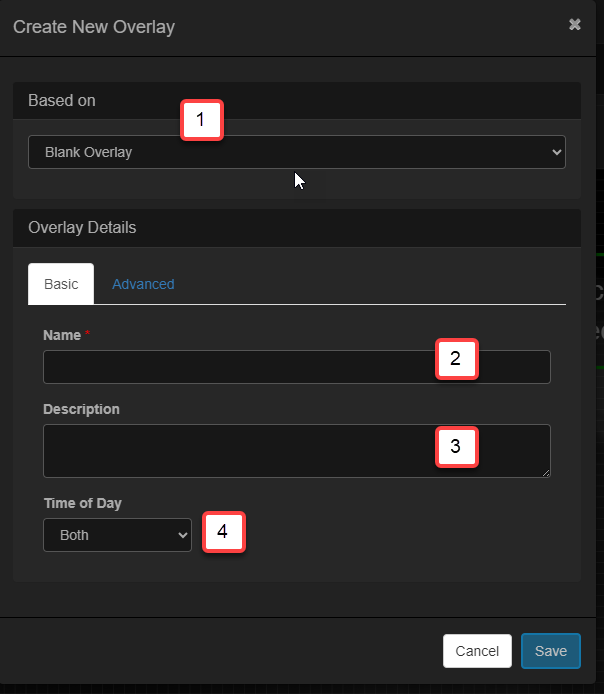
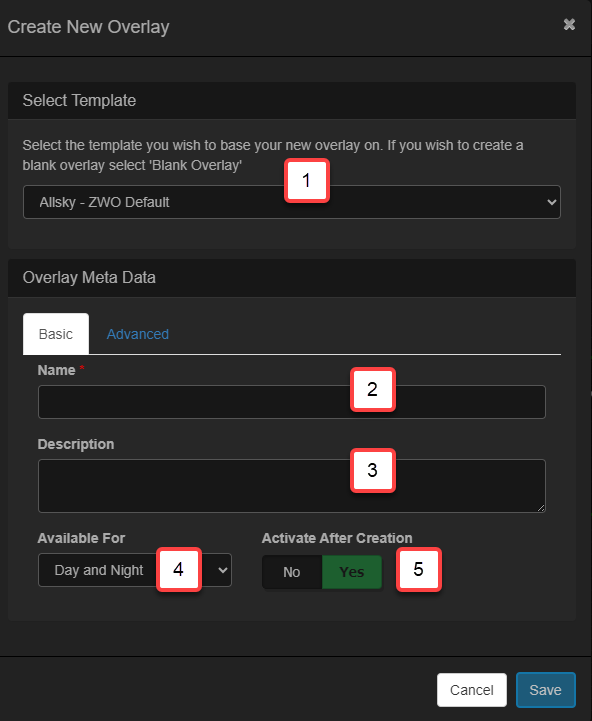
Reword the overlay manager and add a few minor changes

diff --git a/html/js/jquery-overlaymanager/jquery-overlaymanager.js b/html/js/jquery-overlaymanager/jquery-overlaymanager.js
@@ -130,7 +130,7 @@
                                 <a href="#oe-editor-tab1"  role="tab" data-toggle="tab" id="oe-overlay-editor-tab1">Overlay</a>\
                             </li>\
                             <li role="presentation">\
-                                <a href="#oe-exposure-tab2"  role="tab" data-toggle="tab">Options</a>\
+                                <a href="#oe-exposure-tab2"  role="tab" data-toggle="tab">Activate</a>\
                             </li>\
                         </ul>\
                         <div class="tab-content">\
@@ -222,9 +222,9 @@
                                         <div class="row">\
                                             <div class="col-md-12 col-sm-12 col-xs-12">\
                                                 <div class="form-group ">\
-                                                    <label class="control-label ">Time of Day</label>\
+                                                    <label class="control-label ">Available For</label>\
                                                     <select class="form-control ' + plugin.mmMetaData  + '" id="' + plugin.mmMetaTod + '" name="' + plugin.mmMetaTod + '" data-field="tod">\
-                                                        <option value="both">Both</option>\
+                                                        <option value="both">Day and Night</option>\
                                                         <option value="day">Daytime</option>\
                                                         <option value="night">Nighttime</option>\
                                                     </select>\
@@ -237,17 +237,17 @@
                             <div role="tabpanel" class="tab-pane" id="oe-exposure-tab2">\
                                 <div class="panel panel-default">\
                                     <div class="panel-heading">\
-                                        <h3 class="panel-title">Default Overlays</h3>\
+                                        <h3 class="panel-title">Active Overlays</h3>\
                                     </div>\
                                     <div class="panel-body">\
                                         <div class="row mt-2">\
                                             <div class="col-md-12 col-sm-12 col-xs-12">\
                                                 <div class="form-group ">\
-                                                    <label class="control-label " for="select">Daytime Overlay</label>\
+                                                    <label class="control-label " for="select">Daytime</label>\
                                                     <select class="select form-control ' + plugin.mmTODSelect + '" id="' + plugin.mmDaySelect + '" name="' + plugin.mmDaySelect + '"></select>\
                                                 </div>\
                                                 <div class="form-group ">\
-                                                    <label class="control-label " for="select1">Nighttime Overlay</label>\
+                                                    <label class="control-label " for="select1">Nighttime</label>\
                                                     <select class="select form-control ' + plugin.mmTODSelect + '" id="' + plugin.mmNightSelect + '" name="' + plugin.mmNightSelect + '"></select>\
                                                 </div>\
                                             </div>\
@@ -283,6 +283,7 @@
             plugin.mmNewDialogResolutionWidth = pluginPrefix + "-new-dialog-resolutionwidth";
             plugin.mmNewDialogResolutionHeight = pluginPrefix + "-new-dialog-resolutionheight";
             plugin.mmNewDialogTod = pluginPrefix + "-new-dialog-tod";
+            plugin.mmNewDialogActivate = pluginPrefix + "-new-dialog-activate";
             plugin.mmNewDialogSuggest = pluginPrefix + "-new-dialog-suggest";
             plugin.mmNewDialogAdvancedField = pluginPrefix + "-new-dialog-advanced";
 
@@ -340,14 +341,25 @@
                                                                 </div>\
                                                             </div>\
                                                             <div class="row">\
-                                                                <div class="col-md-4">\
+                                                                <div class="col-md-5">\
                                                                     <div class="form-group ">\
-                                                                        <label class="control-label " for="' + plugin.mmNewDialogTod + '">Time of Day</label>\
+                                                                        <label class="control-label " for="' + plugin.mmNewDialogTod + '">Available For</label>\
                                                                         <select class="select form-control ' + plugin.mmNewDialogAdvancedField + '" id="' + plugin.mmNewDialogTod + '" name="' + plugin.mmNewDialogTod + '">\
-                                                                            <option value="both">Both</option>\
+                                                                            <option value="both">Day and Night</option>\
                                                                             <option value="day">Daytime</option>\
                                                                             <option value="night">Nightime</option>\
                                                                         </select>\
+                                                                    </div>\
+                                                                </div>\
+                                                                <div class="col-md-7">\
+                                                                    <div class="form-group form-check">\
+                                                                        <label class="control-label " for="' + plugin.mmNewDialogActivate + '">Activate After Creation</label><br>\
+                                                                        <div class="switch-field boxShadow settingInput settingInputBoolean">\
+                                                                            <input id="' + plugin.mmNewDialogActivate + '-no" class="form-control" type="radio" name="' + plugin.mmNewDialogActivate + '" value="false">\
+                                                                            <label style="margin-bottom: 0px;" for="' + plugin.mmNewDialogActivate + '-no">No</label>\
+                                                                            <input id="' + plugin.mmNewDialogActivate + '-yes" class="form-control" type="radio" name="' + plugin.mmNewDialogActivate + '" value="true" checked="">\
+                                                                            <label style="margin-bottom: 0px;" for="' + plugin.mmNewDialogActivate + '-yes">Yes</label>\
+                                                                        </div>\
                                                                     </div>\
                                                                 </div>\
                                                             </div>\
@@ -600,6 +612,21 @@
                         cache: false,
                         async: false
                     });
+
+                    let activate = $('input[name=' + plugin.mmNewDialogActivate + ']:checked').val();
+                    activate = (activate?.toLowerCase?.() === 'true');
+                    if (activate) {
+                        let tod = $('#' + plugin.mmNewDialogTod).val();
+                        let day = $('#' + plugin.mmDaySelect).val();
+                        let night = $('#' + plugin.mmNightSelect).val();
+                        if (tod === 'day' || tod === 'both') {
+                            day = formData.data.filename + '.json';
+                        }
+                        if (tod === 'night' || tod === 'both') {
+                            night = formData.data.filename + '.json';                            
+                        }
+                        saveSettings(day, night);
+                    }
                     
                     let configManager = window.oedi.get('config');
                     configManager.loadOverlays();
@@ -646,17 +673,7 @@
             });
 
             $(document).on('click', '#' + plugin.mmConfigSave, (e) => {
-                let result = $.ajax({
-                    type: 'POST',
-                    url: 'includes/overlayutil.php?request=SaveSettings',
-                    data: {
-                        daytime: $('#' + plugin.mmDaySelect).val(),
-                        nighttime: $('#' + plugin.mmNightSelect).val()
-                    },
-                    dataType: 'json',
-                    cache: false,
-                    async: false
-                });
+                saveSettings($('#' + plugin.mmDaySelect).val(), $('#' + plugin.mmNightSelect).val());
                 $('#' + plugin.mmConfigSave).addClass('disabled');           
             });
 
@@ -664,6 +681,22 @@
                 updateNewFilename();
             });
 
+        }
+
+        var saveSettings = function(day, night) {
+            let result = $.ajax({
+                type: 'POST',
+                url: 'includes/overlayutil.php?request=SaveSettings',
+                data: {
+                    daytime: day,
+                    nighttime: night
+                },
+                dataType: 'json',
+                cache: false,
+                async: false
+            });
+
+            return result;
         }
 
         var destroyDialog = function() {

diff --git a/html/documentation/overlays/overlays.html b/html/documentation/overlays/overlays.html
@@ -656,7 +656,7 @@
 					<li>The <strong>working area</strong> contains the overlay and the current image
 						in the background.</li>
 				</ol>
-				<blockquote><strong>NOTE:</strong> The Overlay Manager will only start if Allsky is capturing images. If Allsky is not capturing a warning is displayed and the Overlay Manager will wait until Allsky start capturing.</blockquote>
+				<blockquote><strong>NOTE:</strong> The Overlay Editor will only start if Allsky is capturing images. If Allsky is not capturing a warning is displayed and the Overlay Editor will wait until Allsky start capturing.</blockquote>
 				<details>
 					<summary></summary>
 					<blockquote class="morePadding">
@@ -947,7 +947,7 @@
 									<p class="moduleAnnotation">
 										<span class="moduleToolbarIconNumber">2</span>
 										<span class="moduleToolbar">Config</span>
-										<span>Selects the config options</span>
+										<span>Displays the tab to allow overlays to be activated</span>
 									</p>
 									<p class="moduleAnnotation">
 										<span class="moduleToolbarIconNumber">3</span>
@@ -1000,7 +1000,7 @@
 									</p>
 									<p class="moduleAnnotation">
 										<span class="moduleToolbarIconNumber">12</span>
-										<span class="moduleToolbar">Time of Day</span>
+										<span class="moduleToolbar">Available For</span>
 										<span>The Time of Day the overlay should be used for</span>
 									</p>									
 								</td>
@@ -1038,7 +1038,7 @@
 								<td>
 									<p class="moduleAnnotation">
 										<span class="moduleToolbarIconNumber">1</span>
-										<span class="moduleToolbar">Copy From</span>
+										<span class="moduleToolbar">Select Template</span>
 										<span>Selects the overlay you wish to use as a starting point or select 'Blank Overlay' for an empty overlay</span>
 									</p>
 									<p class="moduleAnnotation">
@@ -1053,9 +1053,15 @@
 									</p>
 									<p class="moduleAnnotation">
 										<span class="moduleToolbarIconNumber">4</span>
-										<span class="moduleToolbar">Time Of Day</span>
+										<span class="moduleToolbar">Available For</span>
 										<span>Select the time of day you wish this overlay to be used in</span>
-									</p>									
+									</p>
+									<p class="moduleAnnotation">
+										<span class="moduleToolbarIconNumber">5</span>
+										<span class="moduleToolbar">Activate After Creation</span>
+										<span>If selected then the overlay will be activated after it has been created. If not selected the overlay will be saved as a draft and you will have to manually activate it.</span>
+									</p>
+									<blockquote>By default when an overlay is created it is activated for day/night or both as defined by the 'Available For' dropdown. If you DO NOT want the overlay to be activated by default then select 'No' in the 'Activate  After Creation' option.</blockquote>
 								</td>
 							</tr>
 							<tr>
@@ -1080,12 +1086,12 @@
 									<p class="moduleAnnotation">
 										<span class="moduleToolbarIconNumber">4</span>
 										<span class="moduleToolbar">Image Width</span>
-										<span>The width of image the overlay applies to</span>
+										<span>The width of image the overlay applies to. This will default to the width of the last captured image</span>
 									</p>
 									<p class="moduleAnnotation">
 										<span class="moduleToolbarIconNumber">5</span>
 										<span class="moduleToolbar">Image Height</span>
-										<span>The height of image the overlay applies to</span>
+										<span>The height of image the overlay applies to. This will default to the width of the last captured image</span>
 									</p>									
 								</td>
 							</tr>
@@ -1096,7 +1102,7 @@
 					
 					<h4>Deleting an overlay</h4>
 					<p>To delete an overlay select the required overlay and click the delete buttton.</p>
-					
+					<blockquote>NOTE: You cannot delete an overlay if it is currenty active. You must activate another overlay before deleting it.</blockquote>
 					<summary></summary>
 
 				</details>

diff --git a/html/js/overlay/oe-config.js b/html/js/overlay/oe-config.js
@@ -125,6 +125,36 @@ class OECONFIG {
                         overlay: this.#selectedOverlay
                     });
                     this.dirty = false;                
+                },
+                error: function(xHR, Status, error) {
+                    if (xHR.responseText.length === 0) {
+                        /**
+                         * Something has gone badly wrong - The active overlay doesnt exist so we will set the active
+                         * overlay to the defaulf for the camera then redirect the user back to the overlay manager
+                         * which will hopefully fix that issue
+                         */
+                        alert(' The active overlay does not exist, was it deleted? The active overlay will be reset to the default for your camera.\n\nPlease click OK to continue');
+                        
+                        let defaultOverlay = 'overlay-ZWO.json';
+                        if (this.overlays !== undefined) {
+                            if (this.overlays.brand !== undefined) {
+                                defaultOverlay = 'overlay-' + this.overlays.brand + '.json';
+                            }
+                        }
+
+                        let result = $.ajax({
+                            type: 'POST',
+                            url: 'includes/overlayutil.php?request=SaveSettings',
+                            data: {
+                                daytime: defaultOverlay,
+                                nighttime: defaultOverlay
+                            },
+                            dataType: 'json',
+                            cache: false,
+                            async: false
+                        });
+                        location.reload();
+                    }
                 }                
             });
         } catch (error) {

diff --git a/html/includes/overlayutil.php b/html/includes/overlayutil.php
@@ -666,12 +666,15 @@ class OVERLAYUTIL
             $overlayFilename = $this->getSetting('nighttimeoverlay');
         }
 
+        $template = null;
         $fileName = $this->overlayPath . '/config/' . $overlayFilename;
         if (file_exists($fileName)) {
             $template = file_get_contents($fileName);
         } else {
             $fileName = $this->allskyOverlays . $overlayFilename;
-            $template = file_get_contents($fileName);
+            if (file_exists($fileName)) {            
+                $template = file_get_contents($fileName);
+            }
         }
         $templateData = json_decode($template);      
         $this->fixMetaData($templateData);     
@@ -696,11 +699,14 @@ class OVERLAYUTIL
         }
         $fileName = $this->overlayPath . '/config/' . $overlayName;
 
+        $overlay = null;
         if (file_exists($fileName)) {
             $overlay = file_get_contents($fileName);
         } else {
             $fileName = $this->allskyOverlays . $overlayName;
-            $overlay = file_get_contents($fileName);
+            if (file_exists($fileName)) {
+                $overlay = file_get_contents($fileName);
+            }
         }     
 
         if (!$return) {
@@ -929,20 +935,22 @@ class OVERLAYUTIL
     }
 
     private function fixMetaData(&$overlay) {
-        if (!isset($overlay->metadata)) {
-            $overlay->metadata = (object)null;
-        }
-        if (!isset($overlay->metadata->name)) {
-            $overlay->metadata->name = '???';
-        }
-        if (!isset($overlay->metadata->camerabrand)) {
-            $overlay->metadata->camerabrand = '???';
-        }
-        if (!isset($overlay->metadata->cameramodel)) {
-            $overlay->metadata->cameramodel = '???';
-        }
-        if (!isset($overlay->metadata->tod)) {
-            $overlay->metadata->tod = 'both';
+        if ($overlay !== null) {
+            if (!isset($overlay->metadata)) {
+                $overlay->metadata = (object)null;
+            }
+            if (!isset($overlay->metadata->name)) {
+                $overlay->metadata->name = '???';
+            }
+            if (!isset($overlay->metadata->camerabrand)) {
+                $overlay->metadata->camerabrand = '???';
+            }
+            if (!isset($overlay->metadata->cameramodel)) {
+                $overlay->metadata->cameramodel = '???';
+            }
+            if (!isset($overlay->metadata->tod)) {
+                $overlay->metadata->tod = 'both';
+            }
         }
     }
 

diff --git a/html/includes/overlay.php b/html/includes/overlay.php
@@ -1,5 +1,4 @@
 <?php
-
 function DisplayOverlay($image_name)
 {
 	global $settings_array;
@@ -170,7 +169,7 @@ function DisplayOverlay($image_name)
                             <div id="overlay_container" style="background-color: black; position: relative">
                                 <div id="oe-overlay-disable" class="hidden">
                                     <div class="center">
-                                        <div class="center-paragraph"><h2>You are using a default overlay.</h2> <p>To create a new overlay click <a href="#" id="oe-overlay-disable-new">here</a></p></div>
+                                        <div class="center-paragraph"><h2>You are using a default <?php echo(getTOD()); ?> time overlay.</h2> <p>To create a new overlay click <a href="#" id="oe-overlay-disable-new">here</a></p></div>
                                     </div>
                                 </div> 
                                 <div id="oe-editor-stage"></div>

diff --git a/html/includes/functions.php b/html/includes/functions.php
@@ -829,4 +829,26 @@ function getVariableOrDefault($a, $v, $d) {
 
 	return($d);
 }
+
+function getTOD() {
+	global $settings_array;
+
+	//$settings_array = readSettingsFile();
+
+	$angle = getVariableOrDefault($settings_array, 'angle', -6);
+	$lat = getVariableOrDefault($settings_array, 'latitude', "");
+	$lon = getVariableOrDefault($settings_array, 'longitude', "");
+	$tod = 'Unknown';
+
+	if ($lat != "" && $lon != "") {
+		exec("sunwait poll exit set angle $angle $lat $lon", $return, $retval);
+		if ($retval == 2) {
+			$tod = 'day';
+		} else if ($retval == 3) {
+			$tod = 'night';
+		}
+	}
+	
+	return $tod;
+}
 ?>
